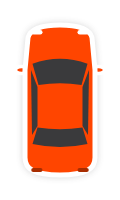
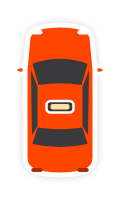
Tell services apart by their thumbnail shape; taxi light on the Car marker (D45, D46)
Car, Mini Van, SUV and Alphard VIP get new thumbnails, each with its
own silhouette: a taxi light, a long four-window van, roof rails and a
spare wheel, a dark body with a crown. The Tuk Tuk thumbnail takes its
marker's orange. Moto keeps its drawing.

The Car map marker gets the same taxi light on its roof, re-exported
at 120x200 from its source in docs/markers/.

Changed region(s): [[0.375, 0.48, 0.625, 0.57]]

diff --git a/docs/ux-redesign/07-design-decision-log.md b/docs/ux-redesign/07-design-decision-log.md
@@ -652,6 +652,35 @@ All decisions are based on the authoritative prototype at `taarraa-ui-prototype.
 
 ---
 
+## D45: Each Service Has Its Own Thumbnail Shape
+
+**Decision:** Four of the six service thumbnails (`assets/image/svg/vehicle_*.svg`) are redrawn so each is told apart by its shape and one cue: Car a low saloon with a taxi light, Mini Van long and tall with four side windows and a sliding door, SUV high and boxy with roof rails and a spare wheel, Alphard VIP a dark body with a chrome window line, an orange pinstripe and a crown. Car, Mini Van and SUV are brand orange like their map markers (D44). Moto and Tuk Tuk keep their D29 drawings; the Tuk Tuk carriage, yellow until now, takes its marker's orange (`#FF4500`, the trim under the roof `#D93B00`).
+
+**Rationale:**
+- User request of 2026-10-17: thumbnails "different and clear to understand". Car, SUV and VIP shared one side profile
+- The user picked per service from a mock of the current and the new thumbnails: the new ones for Car, Mini Van, SUV and Alphard VIP, the current ones for Moto and Tuk Tuk. Then, from a mock of each thumbnail beside its marker, the Tuk Tuk thumbnail in its marker's colour
+- The files keep their names and the 96x56 canvas, so the Home list, the map sheet and ride history take them with no code change
+- Flat shapes only, which flutter_svg draws (`test/core/utils/vehicle_art_test.dart` renders each)
+
+**Tradeoffs:**
+- Car, Mini Van and SUV are all orange; they are told apart by shape alone
+- Moto and Tuk Tuk keep their D29 style, without a rider
+
+---
+
+## D46: The Car Marker Carries a Taxi Light
+
+**Decision:** The Car driver marker (`assets/marker/vehicle_classic_car.png`) has the taxi light of its thumbnail (D45): seen from above, a dark bar with a yellow light on the roof, between the windscreen and the rear window. Its source, `docs/markers/vehicle_classic_car.svg`, carries it too, and the PNG is exported from it at 120x200 like the rest.
+
+**Rationale:**
+- User request of 2026-10-17, from a mock of each service's thumbnail beside its marker
+- The taxi light is what tells the Car thumbnail apart from the SUV and the van; the marker now has the same cue
+
+**Tradeoffs:**
+- pu_driver draws a driver's own car with the D44 file, without the light, until it takes this one too
+
+---
+
 ## Decision Summary
 
 | # | Decision | Impact | Risk |
@@ -697,3 +726,5 @@ All decisions are based on the authoritative prototype at `taarraa-ui-prototype.
 | D39 | Vehicle type recognised by name | Medium | Low |
 | D40 | Invite, ride credit and rewards, mock only | High | Medium |
 | D44 | Driver markers are pu_driver's set | Medium | Low |
+| D45 | Each service has its own thumbnail shape | Medium | Low |
+| D46 | Car marker carries a taxi light | Low | None |
